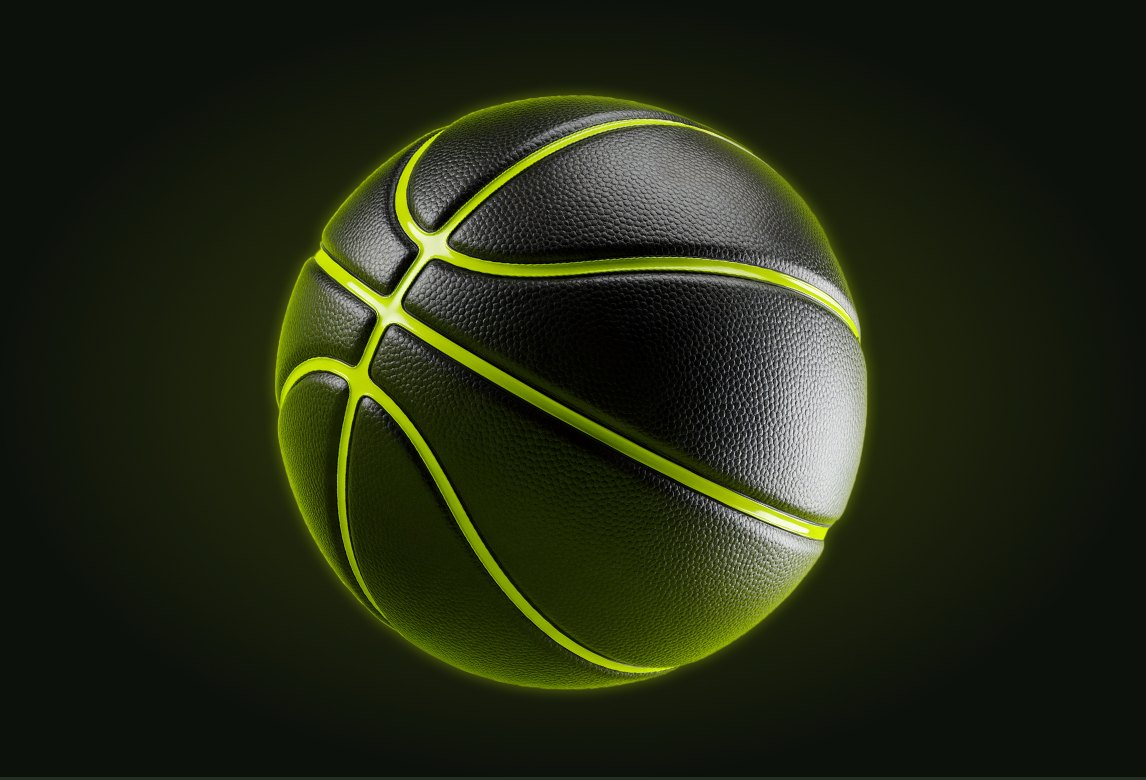
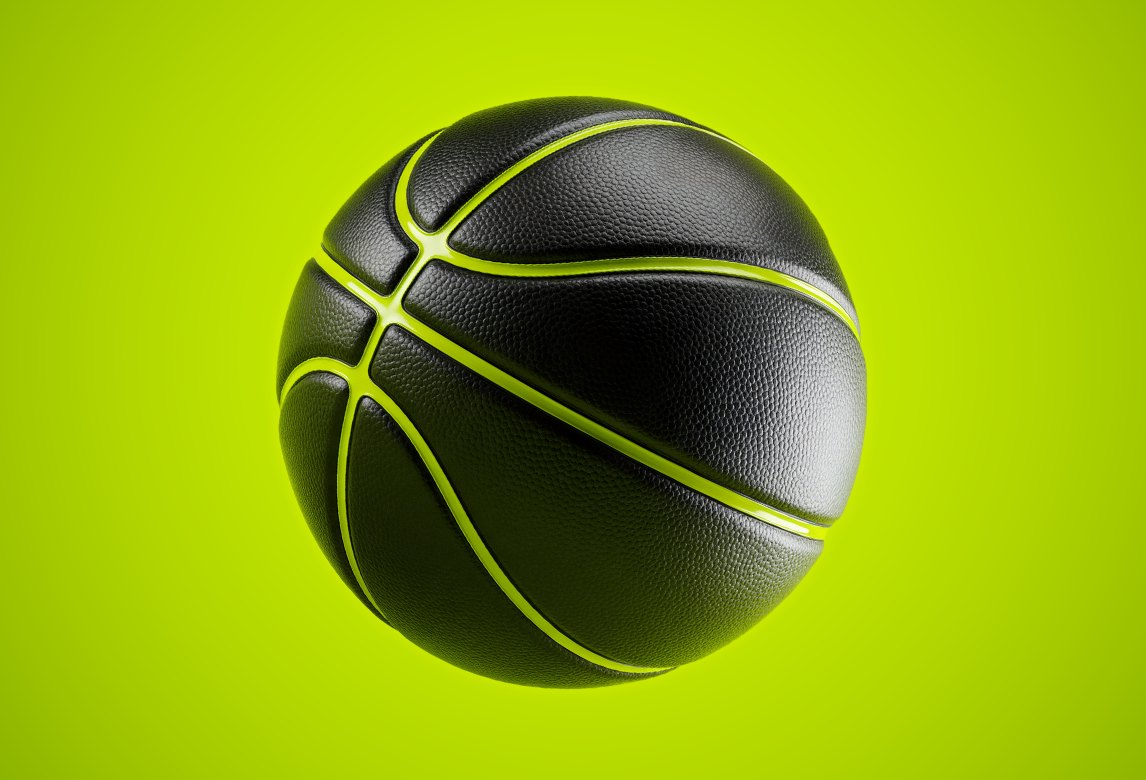
Replace the product images with the new versions; remove the hover swap

diff --git a/css/style.css b/css/style.css
@@ -195,13 +195,7 @@ body.no-scroll { overflow: hidden; }
   background: var(--surf); border: 1px solid var(--line); border-radius: var(--radius);
   overflow: hidden; display: flex; flex-direction: column;
 }
-.product { transition: border-color .3s ease, box-shadow .3s ease; }
-.product-media { position: relative; overflow: hidden; }
 .product-img { width: 100%; aspect-ratio: 1146 / 780; object-fit: cover; }
-.product-img--lime { position: absolute; inset: 0; height: 100%; opacity: 0; transition: opacity .45s ease; }
-.product:hover .product-img--lime, .product:focus-visible .product-img--lime, .product:active .product-img--lime { opacity: 1; }
-.product:hover, .product:focus-visible { border-color: rgba(205, 240, 0, .55); box-shadow: 0 0 32px rgba(205, 240, 0, .18); }
-.product:focus-visible { outline: none; }
 .product-body { padding: 32px 32px 36px; display: flex; flex-direction: column; gap: 20px; }
 .product-title { display: flex; align-items: center; gap: 14px; }
 .product-title .icon-tile { width: 52px; height: 52px; border-radius: 2px; }

diff --git a/js/main.js b/js/main.js
@@ -119,12 +119,8 @@
       } else {
         body = '<ul class="dash-list is-placeholder">' + ("<li>" + esc(t("tbc")) + "</li>").repeat(4) + "</ul>";
       }
-      // Dark image by default; the lime version fades in on hover / tap.
-      return '<article class="product" tabindex="0">' +
-        '<div class="product-media">' +
-          '<img class="product-img" src="assets/img/product-' + id + '.jpg" alt="" width="1146" height="780" loading="lazy">' +
-          '<img class="product-img product-img--lime" src="assets/img/product-' + id + '-lime.jpg" alt="" width="1146" height="780" loading="lazy">' +
-        '</div>' +
+      return '<article class="product">' +
+        '<img class="product-img" src="assets/img/product-' + id + '.jpg?v=2" alt="" width="1146" height="780" loading="lazy">' +
         '<div class="product-body"><div class="product-title"><span class="icon-tile">' + VictorIcon("product-" + id) + "</span>" +
         "<h3>" + esc(p.title) + "</h3></div>" + body + "</div></article>";
     }).join("");

diff --git a/index.html b/index.html
@@ -10,7 +10,7 @@
   <link rel="preconnect" href="https://fonts.googleapis.com">
   <link rel="preconnect" href="https://fonts.gstatic.com" crossorigin>
   <link href="https://fonts.googleapis.com/css2?family=Inter:wght@400;500;600;700&family=Noto+Sans+KR:wght@400;500;700;900&family=Tektur:wght@500;600;700;900&display=swap" rel="stylesheet">
-  <link rel="stylesheet" href="css/style.css?v=202611041818">
+  <link rel="stylesheet" href="css/style.css?v=202611041820">
 </head>
 <body>
   <a class="skip-link" href="#main" data-i18n="skip">Skip to content</a>
@@ -184,8 +184,8 @@
     </form>
   </div>
 
-  <script src="js/icons.js?v=202611041818"></script>
-  <script src="js/features.js?v=202611041818"></script>
-  <script src="js/main.js?v=202611041818"></script>
+  <script src="js/icons.js?v=202611041820"></script>
+  <script src="js/features.js?v=202611041820"></script>
+  <script src="js/main.js?v=202611041820"></script>
 </body>
 </html>
